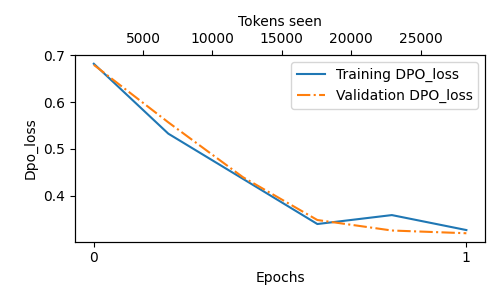
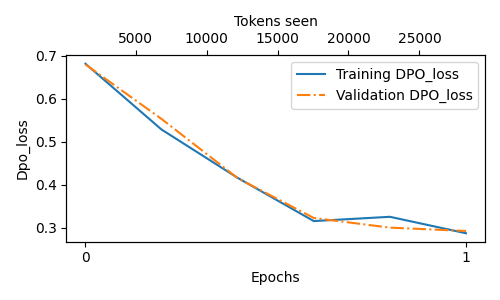
Refactor trainer.py to fix LlamaForCausalLM generation, adjust token limits, and automate script execution.

diff --git a/trainer.py b/trainer.py
@@ -1,47 +1,109 @@
 # train_dpo.py
-from datasets import load_dataset
+from datasets import load_dataset, Dataset
 from trl import DPOConfig, DPOTrainer
 from transformers import AutoModelForCausalLM, AutoTokenizer
 import config
+import json
+from utility import format_input
 
 model_name = config.model_name
 cache_dir = config.cache_dir
+save_path = config.fine_tuned_model_path
+file_path = config.file_content
 
+# Load your custom JSON data
+def load_custom_dataset(file_path):
+    with open(file_path, 'r') as f:
+        data = json.load(f)
+    # Convert to a format compatible with DPO: each entry needs 'prompt', 'chosen', and 'rejected'
+    formatted_data = {
+        "prompt": [entry["question"] for entry in data],
+        "chosen": [entry["chosen"] for entry in data],
+        "rejected": [entry["rejected"] for entry in data]
+    }
+    # Create a Dataset object
+    return Dataset.from_dict(formatted_data)
+
+dataset = load_custom_dataset(file_path)
+
+# Split the dataset into train and test (e.g., 80% train, 20% test)
+train_test_split = dataset.train_test_split(test_size=0.2, seed=42)
+train_dataset = train_test_split["train"]
+test_dataset = train_test_split["test"]
+
+# Load model and tokenizer
 model = AutoModelForCausalLM.from_pretrained(model_name, cache_dir=cache_dir)
 tokenizer = AutoTokenizer.from_pretrained(model_name, cache_dir=cache_dir)
-train_dataset = load_dataset("trl-lib/ultrafeedback_binarized", split="train")
+# train_dataset = load_dataset("trl-lib/ultrafeedback_binarized", split="train")
 
-training_args = DPOConfig(output_dir=f"{model_name}_DPO", logging_steps=5, per_device_train_batch_size=config.batch_size, num_train_epochs=config.num_epochs, learning_rate=config.learning_rate, beta=config.beta, temperature=config.temperature, top_p=config.top_p, max_new_tokens=config.max_new_tokens, allowed_max_length=config.allowed_max_length)
-trainer = DPOTrainer(model=model, args=training_args, processing_class=tokenizer, train_dataset=train_dataset)
+# # Use 1/20 of the training dataset
+# train_dataset = train_dataset.shard(num_shards=20, index=0)
+
+eot_token_id = tokenizer.convert_tokens_to_ids("<|eot_id|>")
+print("This is the chat template")
+print(tokenizer.chat_template)
+if tokenizer.chat_template is None:
+    tokenizer.chat_template = "<|begin_of_text|><|start_header_id|>system<|end_header_id>\n{input}<|eot_id|>"
+
+print("\n -------------- \n")
+print("Start training")
+training_args = DPOConfig(
+    output_dir=f"{model_name}_DPO",
+    logging_steps=5,
+    per_device_train_batch_size=config.batch_size,
+    num_train_epochs=config.num_epochs,
+    beta=config.beta,
+    padding_value=eot_token_id
+)
+trainer = DPOTrainer(
+    model=model,
+    args=training_args,
+    processing_class=tokenizer,
+    train_dataset=train_dataset
+)
 trainer.train()
+print("Training finished")
 
+print("Saving Model")
+trainer.save_model(save_path)
+tokenizer.save_pretrained(save_path)
+print("\n -------------- \n")
 
-trainer.save_model()
+print("Start evaluation")
 
+ft_model = AutoModelForCausalLM.from_pretrained(save_path)
+ft_tokenizer = AutoTokenizer.from_pretrained(save_path)
 
-# Evaluate the model
-val_dataset = load_dataset("trl-lib/ultrafeedback_binarized", split="validation")
-trainer.evaluate(val_dataset)
-# print the first 3 examples in validation dataset
-for example in val_dataset["text"][:3]:
-    print(f"Example: {example}")
-    print(f"Generated text: {trainer.generate_text(example)}")
+# Load test dataset
+# test_dataset = load_dataset("trl-lib/ultrafeedback_binarized", split="test")
 
-    # print expected chosen and rejected text
-    print(f"Expected chosen text: {example['chosen_text']}")
-    print(f"Expected rejected text: {example['rejected_text']}")
+# Generate text for the first 3 examples
+for example in test_dataset[:3]:
+    input_text = format_input(example)
+    inputs = tokenizer(input_text, return_tensors="pt", truncation=True, max_length=512)
 
-# load fine-tuned model after training
-ft_model = AutoModelForCausalLM.from_pretrained(f"{model_name}_DPO")
-ft_tokenizer = AutoTokenizer.from_pretrained(f"{model_name}_DPO")
+    # Generate text with original model
+    original_output = model.generate(
+        **inputs,
+        max_new_tokens=50,  # Adjust as needed
+        do_sample=True,     # Optional: for varied outputs
+        pad_token_id=eot_token_id
+    )
+    original_text = tokenizer.decode(original_output[0], skip_special_tokens=True)
 
-# generate text using fine-tuned model from the first 3 examples in test dataset
-test_dataset = load_dataset("trl-lib/ultrafeedback_binarized", split="test")
+    # Generate text with fine-tuned model
+    ft_output = ft_model.generate(
+        **inputs,
+        max_new_tokens=50,  # Adjust as needed
+        do_sample=True,     # Optional: for varied outputs
+        pad_token_id=eot_token_id
+    )
+    ft_text = ft_tokenizer.decode(ft_output[0], skip_special_tokens=True)
 
-for example in test_dataset["text"][:3]:
-    print(f"Example: {example}")
-    print(f"Generated text: {trainer.generate_text(example)}")
-
-    # print expected chosen and rejected text
-    print(f"Expected chosen text: {example['chosen_text']}")
-    print(f"Expected rejected text: {example['rejected_text']}")
+    # Print results
+    print(f"Example prompt: {input_text}")
+    print(f"Generated text by original model: {original_text}")
+    print(f"Generated text by fine-tuned model: {ft_text}")
+    print(f"Expected chosen text: {example['chosen']}")
+    print(f"Expected rejected text: {example['rejected']}")
+    print("\n")

diff --git a/config.py b/config.py
@@ -1,10 +1,10 @@
-# model_name = "meta-llama/Llama-3.2-1B"
-model_name = "meta-llama/Llama-3.1-8B"
+model_name = "meta-llama/Llama-3.2-1B"
+# model_name = "meta-llama/Llama-3.1-8B"
 fine_tuned_model_path = f"/workspace/{model_name.split('/')[-1]}_fine-tuned"
 cache_dir = "/workspace/models" # for cloud storage
 
 allowed_max_length = 512 # maximum number of tokens in a sequence for training input data
-max_new_tokens = 128  # maximum number of tokens to generate
+max_new_tokens = 256  # maximum number of tokens to generate
 batch_size = 4
 num_epochs = 1
 beta = 0.1
